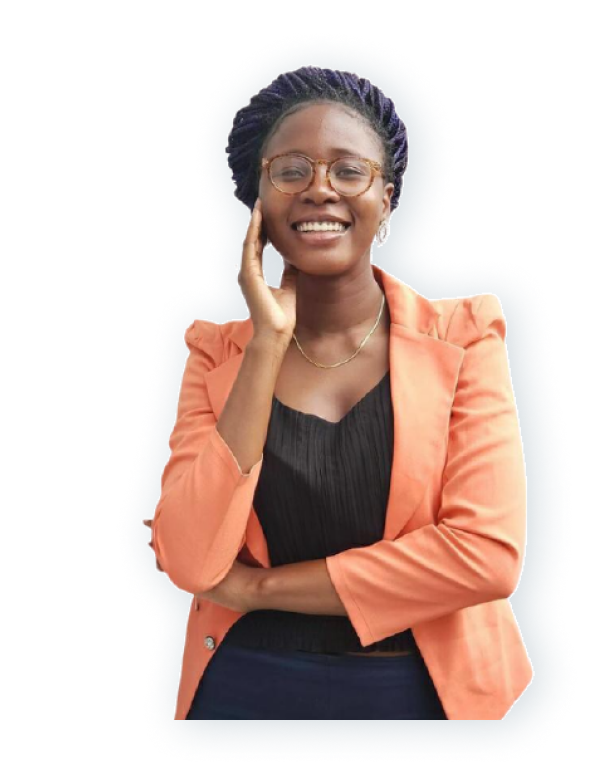
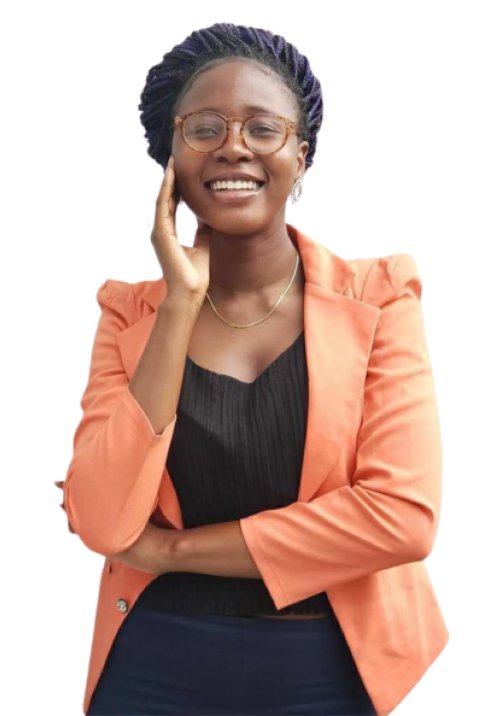
Worked on the Home page

diff --git a/src/App.js b/src/App.js
@@ -10,14 +10,14 @@ import Architectdesign from "./pages/Courseinfo.js/Architectdesign";
 import Architecttech from "./pages/Courseinfo.js/Architecttech";
 import Relationaldb from "./pages/Courseinfo.js/Relationaldb";
 import Riskmgt from "./pages/Courseinfo.js/Riskmgt";
-import Reverse from "./pages/Courseinfo.js/Reverse";
+import Reverseengineering from "./pages/Courseinfo.js/Reverseengineering";
 import Pentesting from "./pages/Courseinfo.js/Pentesting";
 import Bigdata from "./pages/Courseinfo.js/Bigdata";
 import Python from "./pages/Courseinfo.js/Python";
 import IoT from "./pages/Courseinfo.js/IoT";
 import Securityaudit from "./pages/Courseinfo.js/Securityaudit";
 import Sales from "./pages/Courseinfo.js/Sales";
-import Customer from "./pages/Courseinfo.js/Customer";
+import Customerexperience from "./pages/Courseinfo.js/Customerexperience";
 import Digitalmarketing from "./pages/Courseinfo.js/Digitalmarketing";
 import Videoediting from "./pages/Courseinfo.js/Videoediting";
 import Personaldevt from "./pages/Courseinfo.js/Personaldevt";
@@ -57,14 +57,14 @@ function App() {
         <Route path=" architecttech" element={<Architecttech />} />
         <Route path="relationaldb" element={<Relationaldb />} />
         <Route path="riskmgt" element={<Riskmgt />} />
-        <Route path="reverse" element={<Reverse />} />
+        <Route path="reverseengineering" element={<Reverseengineering />} />
         <Route path="pentesting" element={<Pentesting />} />
         <Route path="bigdata" element={<Bigdata />} />
         <Route path="python" element={<Python />} />
         <Route path="iot" element={<IoT />} />
         <Route path="securityaudit" element={<Securityaudit />} />
         <Route path="sales" element={<Sales />} />
-        <Route path="customer" element={<Customer />} />
+        <Route path="customerexperience" element={<Customerexperience />} />
         <Route path="digitalmarketing" element={<Digitalmarketing />} />
         <Route path="videoediting" element={<Videoediting />} />
         <Route path="personaldevt" element={<Personaldevt />} />

diff --git a/src/components/Card.js b/src/components/Card.js
@@ -1,7 +1,7 @@
 import React from "react";
 import { ApplyNowButton } from "./Buttons";
-import blogimage1 from "../images/blogimage1.png";
-import blogimage2 from "../images/blogimage2.png";
+import event1 from "../images/event1.png";
+import event2 from "../images/event2.png";
 
 //homepage cards
 export const CourseCategoryCards = (props) => {
@@ -22,11 +22,11 @@ export const CourseCategoryCards = (props) => {
 
 export const BlogCards = (props) => {
   return (
-    <div class="card m-3" style={{ maxWidth: "540px" }}>
+    <div class="card m-3">
       <div class="row g-0">
         <div class="col-md-4">
           <img
-            src={blogimage1}
+            src={event1}
             className="img-fluid rounded-start h-100"
             alt="..."
           />
@@ -48,11 +48,11 @@ export const BlogCards = (props) => {
 
 export const BlogCardsTwo = (props) => {
   return (
-    <div class="card m-3" style={{ maxWidth: "540px" }}>
+    <div class="card m-3">
       <div class="row g-0">
         <div class="col-md-4">
           <img
-            src={blogimage2}
+            src={event2}
             className="img-fluid rounded-start h-100"
             alt="..."
           />

diff --git a/src/components/Hero.js b/src/components/Hero.js
@@ -8,7 +8,7 @@ export let HomepageHero = () => {
     <div className="px-4 py-2 heroBg container-fluid">
       <Navbar />
       <div className="row flex-sm-row-reverse align-items-center">
-        <div className="col-lg-5 col-md-5">
+        <div className="col-lg-5 col-md-6">
           <img
             src={heroimage}
             className="d-block mx-lg-auto img-fluid"
@@ -16,11 +16,15 @@ export let HomepageHero = () => {
             loading=""
           />
         </div>
-        <div className="col-lg-5 col-md-6">
+        <div className="col-lg-7 ps-5 col-md-6 py-5">
           <h1 className="herotextWhite">
-            Mentored Upskilling For Improved <br />
-            <span className="herotextColored">Learning Opportunities</span>
+            Upskill for this&nbsp;
+            <span className="herotextColored">Digital age.</span>
           </h1>
+          <p className="herotextWhite">
+            Mentored Upskilling For Improved Learning Opportunities. Get the
+            needed skills for your desired job role.
+          </p>
           <div className="my-4">
             <GetStartedButton />
           </div>
